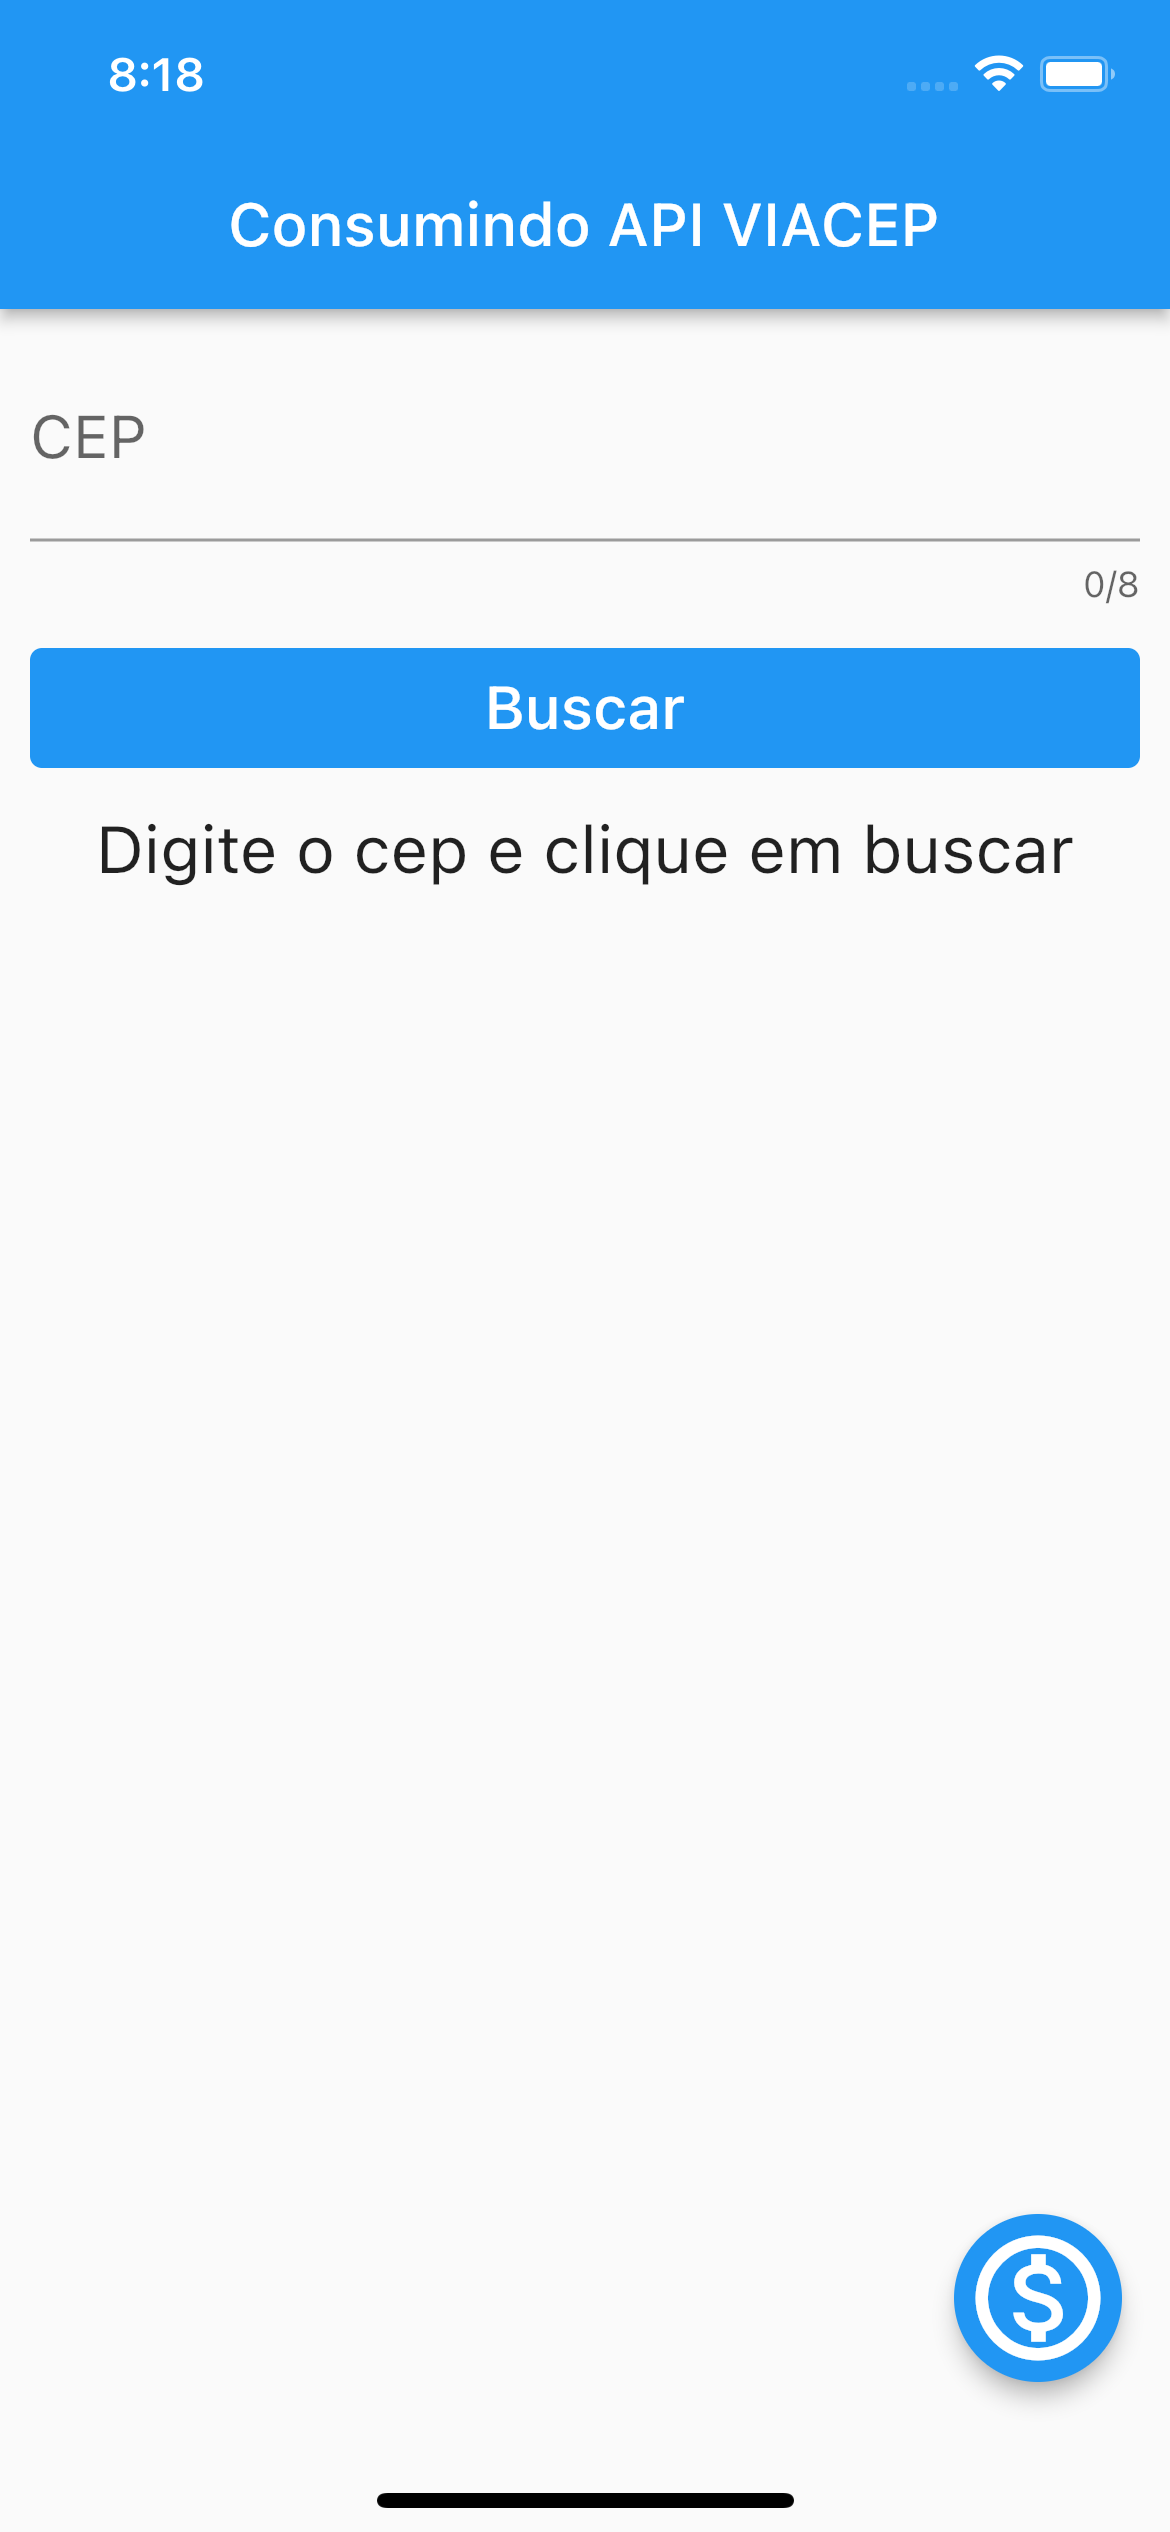
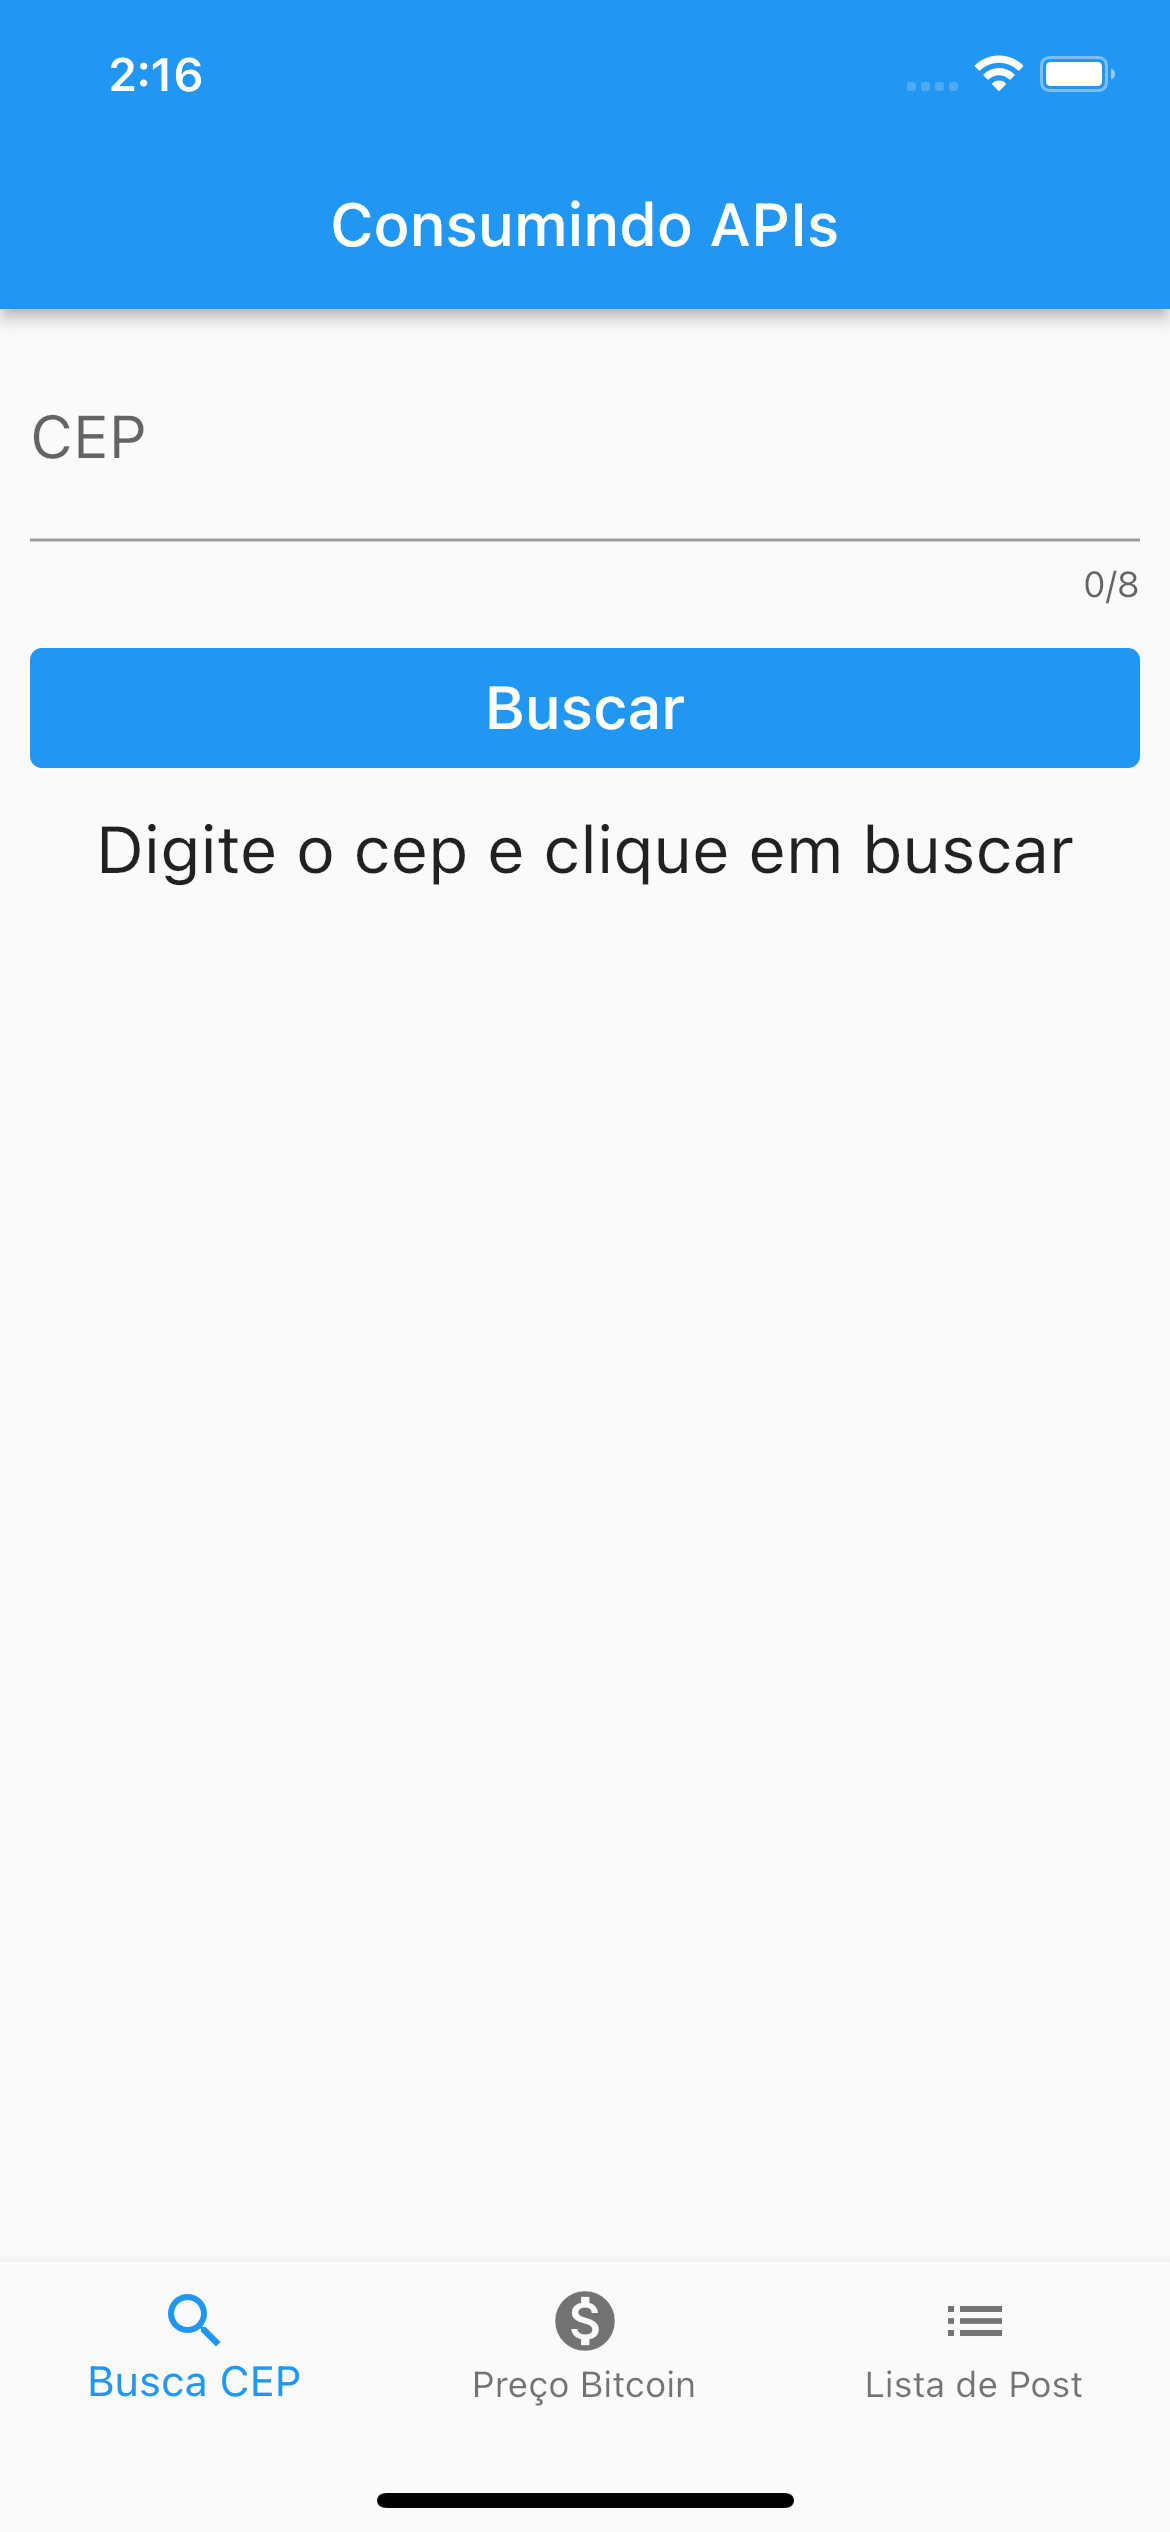
add new ScreenShot

diff --git a/lib/post.dart b/lib/post.dart
@@ -8,10 +8,10 @@ class Post {
 
   Map toJson() {
     return {
-      "userId": this._userId,
-      "id": this._id,
-      "title": this._title,
-      "body": this._body,
+      "userId": _userId,
+      "id": _id,
+      "title": _title,
+      "body": _body,
     };
   }
 

diff --git a/README.md b/README.md
@@ -6,6 +6,7 @@ Este app foi criado com base no curso de flutter para consumo de API's
 
 :iphone: Buscando endereço com base no cep.
 :iphone: Buscando preço do bitcoin.
+:iphone: Criando uma lista com dados vindo da API.
 
 - [Instalação do flutter](https://flutter.dev/docs/get-started)
 - [O que é Widgets?](https://flutter.dev/docs/development/ui/widgets)
@@ -21,7 +22,7 @@ Este app foi criado com base no curso de flutter para consumo de API's
 ## Screenshots
 
 <img src="https://github.com/DuhAlonso/basic_app_request_api/blob/master/screenshot/Screen1.png" width="250"> <img src="https://github.com/DuhAlonso/basic_app_request_api/blob/master/screenshot/Screen2.png" width="250"> <img src="https://github.com/DuhAlonso/basic_app_request_api/blob/master/screenshot/Screen3.png" width="250"> 
-<img src="https://github.com/DuhAlonso/basic_app_request_api/blob/master/screenshot/Screen4.png" width="250">
+<img src="https://github.com/DuhAlonso/basic_app_request_api/blob/master/screenshot/Screen4.png" width="250"> <img src="https://github.com/DuhAlonso/basic_app_request_api/blob/master/screenshot/Screen5.png" width="250">
 
 ### Estudar é fundamental para um bom futuro, estudar e praticar é a chave do SUCESSO!
 
